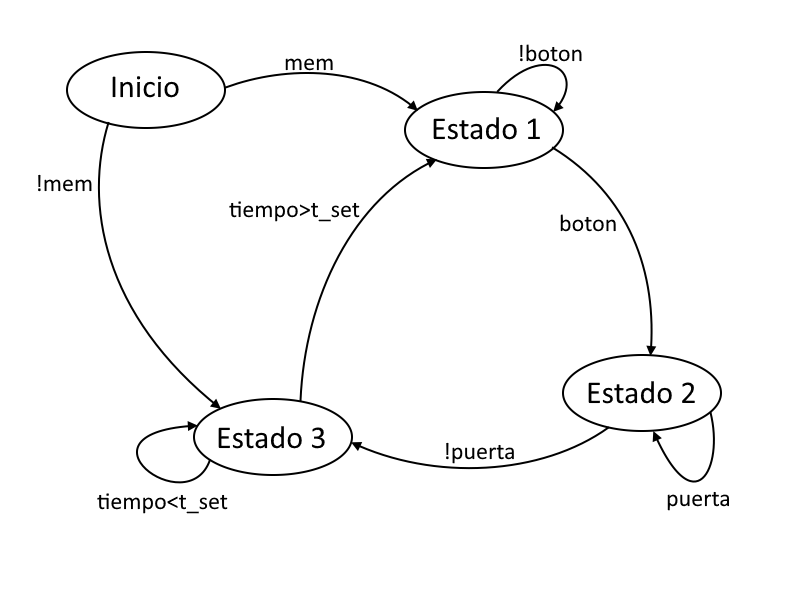
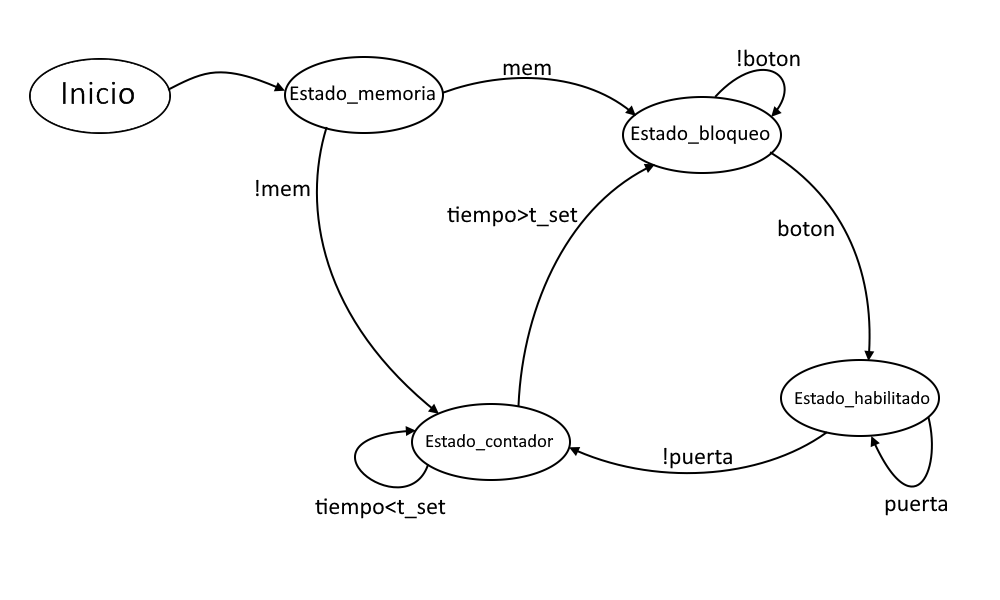
Subiendo primera versión de código

diff --git a/src/main.c b/src/main.c
@@ -1,0 +1,21 @@
+#include "lib.h"
+
+int main(){
+    estados_t estado = memoria;
+    alarma_t alarma;
+    
+    alarma = inicio();
+
+    while(1){
+        switch(estado){
+            case memoria: f_memoria(alarma);
+                break;
+            case bloqueo: f_bloqueo(alarma);
+                break;
+            case habilitado: f_habilitado(alarma);
+                break;
+            case contador: f_contador(alarma);
+                break;
+        }
+    }
+}   

diff --git a/src/lib.h b/src/lib.h
@@ -1,0 +1,27 @@
+#ifndef LIBRERIA
+#define LIBRERIA
+#include <stdio.h>
+
+typedef enum{
+    memoria=0,
+    bloqueo=1,
+    habilitado=2,
+    contador=3
+}estados_t;
+
+typedef struct{
+    float tiempo;
+    float t_set;
+    char memoria;
+    char relay;
+    char boton;
+    char puerta;
+}alarma_t;
+    
+alarma_t inicio(void);
+estados_t f_memoria(alarma_t);
+estados_t f_bloqueo(alarma_t);
+estados_t f_habilitado(alarma_t);
+estados_t f_contador(alarma_t);
+
+#endif
